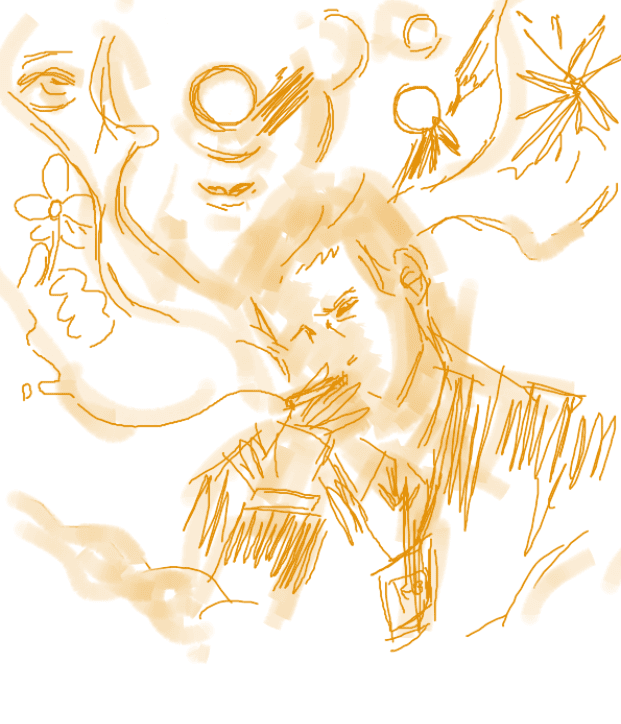
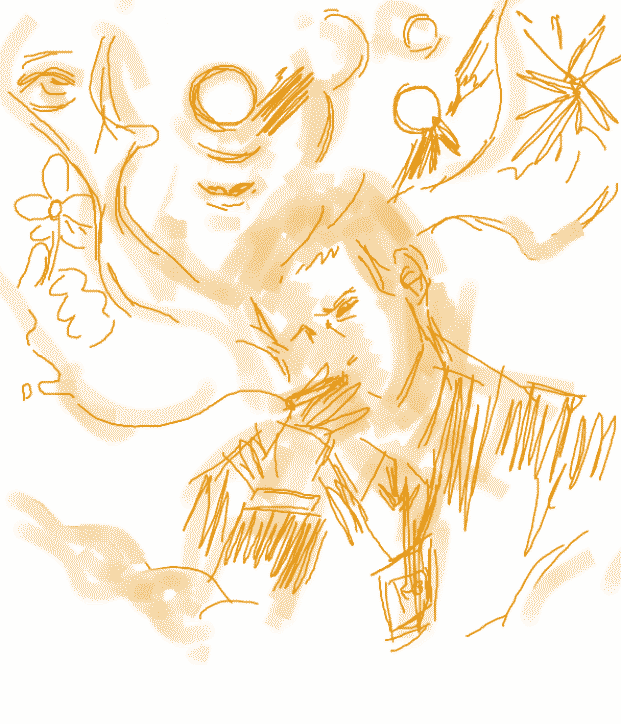
Reorder webrings

diff --git a/source/index.html b/source/index.html
@@ -1710,53 +1710,7 @@ KWWKEKKKKKKWKKKKKKKEKKKKWWWKWWEttGGGGDGDWWEEEEEEEKitttGGGGDW#WKKEEEEEEEEEEEEEKEK
 								<br>
 								<!-- ! RING END -->
 								<br>
-								<!-- ! ADS START -->
-
-								<div class="ads grayscale">
-									<iframe src="https://spaghetti.nekoweb.org/carbonara-embed"
-										style="border: none; width: 150px; height: 150px" base target="_blank"></iframe>
-								</div>
-
-								<!-- ! RING END -->
-								<br>
 								<!-- ! RING START -->
-
-								<!-- This is the melonlink banner script and can go anywhere! -->
-								<script src="https://melonking.net/scripts/melonLinks.js"></script>
-								<!-- This will become a melon link banner! -->
-								<span class="melonLink" data-melon-link-format="club-400x40"></span>
-
-								<div class="webring">
-									<div id="we_bring">
-										<script type="text/javascript"
-											src="https://brooklynights.nekoweb.org/we_bring/onionring-variables.js"></script>
-										<script type="text/javascript"
-											src="https://brooklynights.nekoweb.org/we_bring/onionring-widget.js"></script>
-									</div>
-								</div>
-
-								<!-- ! RING END -->
-								<br>
-								<!-- ! RING START -->
-								<div id="transring">
-									<script src="https://transring.neocities.org/ring.js"></script>
-								</div>
-								<!-- ! RING END -->
-								<br>
-								<!-- ! RING START -->
-								<div class="nullring" style="flex-direction: row">
-									<script src="https://nuthead.neocities.org/ring/ring.js"></script>
-								</div>
-								<!-- ! RING END -->
-								<br>
-								<!-- ! RING START -->
-
-								<iframe src="https://spagwhetti.github.io/embed.html?name=7vtia"
-									style="border: none; height: 3rem; width: 100%"></iframe>
-								<!-- ! RING END -->
-								<br>
-								<!-- ! RING START -->
-
 								<div id="nix-ring">
 									<script defer src="https://softmachine.dev/webring/linuxring/ring.js" data-icon="mint"></script>
 								</div>
@@ -1806,24 +1760,105 @@ KWWKEKKKKKKWKKKKKKKEKKKKWWWKWWEttGGGGDGDWWEEEEEEEKitttGGGGDW#WKKEEEEEEEEEEEEEKEK
 								<br>
 								<!-- ! RING START -->
 
-								<div id="sidecar">
-									<script src="https://sidecar.neocities.org/js/onionring-variables.js"></script>
-									<script src="https://sidecar.neocities.org/js/onionring-widget.js"></script>
+								<div id="webmasterwebring">
+									<a href="https://webmasterwebring.netlify.app/?7vtia-previous"
+										style="color: #2da5d8 !important; ">&larr;</a>
+									<a href="https://webmasterwebring.netlify.app/" style="color: #2da5d8 !important; ">Webmaster
+										Webring</a> <a href="https://webmasterwebring.netlify.app/?7vtia-random"
+										style="color: #2da5d8 !important; ">?</a> <a href="https://webmasterwebring.netlify.app/?7vtia-next"
+										style="color: #2da5d8 !important; ">&rarr;</a>
+								</div>
+								<!-- ! RING END -->
+								<br>
+								<!-- ! RING START -->
+								<div class="nullring" style="flex-direction: row">
+									<script src="https://nuthead.neocities.org/ring/ring.js"></script>
+								</div>
+
+								<!-- ! RING END -->
+
+								<!-- ! RING START -->
+
+								<map name="onlinewidget">
+									<area href="https://webring.ghostk.id/online/" target="_blank" shape="rect" coords="20,14,167,24"
+										alt="The online webring" title="The online webring">
+									<area href="https://webring.ghostk.id/online/vtia/previous" target="_top" shape="rect"
+										coords="7,27,60,36" alt="Previous" title="Previous">
+									<area href="https://webring.ghostk.id/online/random" target="_top" shape="rect" coords="74,27,126,36"
+										alt="Random" title="Random">
+									<area href="https://webring.ghostk.id/online/vtia/next" target="_top" shape="rect"
+										coords="139,27,192,36" alt="Next" title="Next">
+								</map>
+								<img usemap="#onlinewidget" src="https://ghostk.id/i/onlinegray.gif" width="200" height="40" style="
+											width: 200px;
+											height: 40px;
+											max-width: none;
+											image-rendering: pixelated;
+										" alt="A Windows style dialog box titled 'THE ONLINE WEBRING' with three clickable buttons labeled Previous, Random, and Next">
+
+								<!-- ! RING END -->
+								<br>
+								<!-- ! ADS START -->
+
+								<div class="ads grayscale">
+									<iframe src="https://spaghetti.nekoweb.org/carbonara-embed"
+										style="border: none; width: 150px; height: 150px" base target="_blank"></iframe>
 								</div>
 
 								<!-- ! RING END -->
 								<br>
 								<!-- ! RING START -->
 
-								<div id="webmasterwebring">
-									<div id="webmasteringbtn">
-										<a href="https://webmasterwebring.netlify.app?7vtia-previous">&lt;</a><a
-											href="https://webmasterwebring.netlify.app"><img
-												src="https://file.garden/ZrZSgsrYfQXsO7QH/ww/btn.png" width="88" height="31"></a><a
-											href="https://webmasterwebring.netlify.app?7vtia-random" style="font-size: 1.5rem">?</a>
-										<a href="https://webmasterwebring.netlify.app?7vtia-next">&gt;</a>
+								<!-- This is the melonlink banner script and can go anywhere! -->
+								<script src="https://melonking.net/scripts/melonLinks.js"></script>
+								<!-- This will become a melon link banner! -->
+								<span class="melonLink" data-melon-link-format="club-400x40"></span>
+								<!-- ! RING END -->
+								<br>
+								<!-- ! RING START -->
+
+								<iframe src="https://spagwhetti.github.io/embed.html?name=7vtia"
+									style="border: none; height: 3rem; width: 100%"></iframe>
+								<!-- ! RING END -->
+
+								<!-- ! RING START -->
+								<div class="webring">
+									<div id="we_bring">
+										<script type="text/javascript"
+											src="https://brooklynights.nekoweb.org/we_bring/onionring-variables.js"></script>
+										<script type="text/javascript"
+											src="https://brooklynights.nekoweb.org/we_bring/onionring-widget.js"></script>
 									</div>
 								</div>
+								<!-- ! RING END -->
+								<br>
+								<!-- ! RING START -->
+
+								<div id="bonki-ring">
+									<script type="text/javascript"
+										src="https://bonkiscoolsite.neocities.org/bonkiring/bonkiring-widget.js"></script>
+								</div>
+
+								<!-- ! RING END -->
+								<br>
+								<!-- ! RING START -->
+								<div id="transring">
+									<script src="https://transring.neocities.org/ring.js"></script>
+								</div>
+
+
+								<!-- ! RING END -->
+								<br>
+								<!-- ! RING START -->
+
+
+
+								<div id="sidecar">
+									<script src="https://sidecar.neocities.org/js/onionring-variables.js"></script>
+									<script src="https://sidecar.neocities.org/js/onionring-widget.js"></script>
+								</div>
+
+
 
 								<!-- ! RING END -->
 								<br>
@@ -1860,65 +1895,6 @@ KWWKEKKKKKKWKKKKKKKEKKKKWWWKWWEttGGGGDGDWWEEEEEEEKitttGGGGDW#WKKEEEEEEEEEEEEEKEK
 								<!-- ! RING START -->
 								<link rel="stylesheet" href="https://lunarcorvus.com/webring/pmoonwidget.css">
 								<script src="https://lunarcorvus.com/webring/pmoonwidget-lobocorp.js"></script>
-
-								<!-- ! RING END -->
-								<br>
-								<script defer="defer" src="https://mechagic.pages.gay/1stylescripts/webring/gitgudring.js"></script>
-
-								<!-- ! RING END -->
-								<br>
-
-								<!-- ! RING START -->
-
-								<!-- ! CHRONOS WEBRING START -->
-								<div id="chronos">
-									<script src="https://hal.nekoweb.org/chronos/onionring-variables.js"></script>
-									<script src="https://hal.nekoweb.org/chronos/onionring-widget.js"></script>
-								</div>
-								<!-- ! CHRONOS WEBRING END -->
-								<br>
-								<!-- ! RING START -->
-
-								<div id="aperturewebring">
-									<script type="text/javascript"
-										src="https://jack-dawlia.neocities.org/page/shrines/portal/aperturewebring/onionring-variables.js"></script>
-									<script type="text/javascript"
-										src="https://jack-dawlia.neocities.org/page/shrines/portal/aperturewebring/onionring-widget-1.js"></script>
-									<noscript>
-										This site is part of the
-										<a href="https://jack-dawlia.neocities.org/page/shrines/portal/aperturewebring">Aperture
-											Webring</a>!
-									</noscript>
-								</div>
-
-								<!-- ! RING END -->
-								<br>
-								<!-- ! RING START -->
-
-								<div id="codec-ring">
-									<script type="text/javascript"
-										src="https://arillscorner.nekoweb.org/codec-ring/onionring-variables.js"></script>
-
-									<script type="text/javascript"
-										src="https://arillscorner.nekoweb.org/codec-ring/onionring-widget.js"></script>
-								</div>
-
-								<!-- ! RING END -->
-								<br>
-								<!-- ! RING START -->
-
-								<div id="bonki-ring">
-									<script type="text/javascript"
-										src="https://bonkiscoolsite.neocities.org/bonkiring/bonkiring-widget.js"></script>
-								</div>
-
-								<!-- ! RING END -->
-								<br>
-								<!-- ! RING START -->
-								<journal-ring icon="green"></journal-ring>
-								<script async
-									src="https://cdn.jsdelivr.net/gh/js044/nenrikido@main/static/js/misc/journalring.js"></script>
-
 								<!-- ! RING END -->
 								<br>
 								<!-- ! RING START -->
@@ -1978,32 +1954,63 @@ KWWKEKKKKKKWKKKKKKKEKKKKWWWKWWEttGGGGDGDWWEEEEEEEKitttGGGGDW#WKKEEEEEEEEEEEEEKEK
 											}
 
 											/* .navdroidring:hover {
-    background: linear-gradient(to bottom, #ffebc4, #f2f2f2);
-    } */
+									    background: linear-gradient(to bottom, #ffebc4, #f2f2f2);
+									    } */
 										</style>
 									</div>
 								</center>
 
 								<!-- ! RING END -->
 								<br>
+								<script defer="defer" src="https://mechagic.pages.gay/1stylescripts/webring/gitgudring.js"></script>
+
+								<!-- ! RING END -->
+								<br>
+
 								<!-- ! RING START -->
 
-								<map name="onlinewidget">
-									<area href="https://webring.ghostk.id/online/" target="_blank" shape="rect" coords="20,14,167,24"
-										alt="The online webring" title="The online webring">
-									<area href="https://webring.ghostk.id/online/vtia/previous" target="_top" shape="rect"
-										coords="7,27,60,36" alt="Previous" title="Previous">
-									<area href="https://webring.ghostk.id/online/random" target="_top" shape="rect" coords="74,27,126,36"
-										alt="Random" title="Random">
-									<area href="https://webring.ghostk.id/online/vtia/next" target="_top" shape="rect"
-										coords="139,27,192,36" alt="Next" title="Next">
-								</map>
-								<img usemap="#onlinewidget" src="https://ghostk.id/i/onlinegray.gif" width="200" height="40" style="
-											width: 200px;
-											height: 40px;
-											max-width: none;
-											image-rendering: pixelated;
-										" alt="A Windows style dialog box titled 'THE ONLINE WEBRING' with three clickable buttons labeled Previous, Random, and Next">
+								<!-- ! CHRONOS WEBRING START -->
+								<div id="chronos">
+									<script src="https://hal.nekoweb.org/chronos/onionring-variables.js"></script>
+									<script src="https://hal.nekoweb.org/chronos/onionring-widget.js"></script>
+								</div>
+								<!-- ! CHRONOS WEBRING END -->
+								<br>
+								<!-- ! RING START -->
+
+								<div id="aperturewebring">
+									<script type="text/javascript"
+										src="https://jack-dawlia.neocities.org/page/shrines/portal/aperturewebring/onionring-variables.js"></script>
+									<script type="text/javascript"
+										src="https://jack-dawlia.neocities.org/page/shrines/portal/aperturewebring/onionring-widget-1.js"></script>
+									<noscript>
+										This site is part of the
+										<a href="https://jack-dawlia.neocities.org/page/shrines/portal/aperturewebring">Aperture
+											Webring</a>!
+									</noscript>
+								</div>
+
+								<!-- ! RING END -->
+								<br>
+								<!-- ! RING START -->
+
+								<div id="codec-ring">
+									<script type="text/javascript"
+										src="https://arillscorner.nekoweb.org/codec-ring/onionring-variables.js"></script>
+
+									<script type="text/javascript"
+										src="https://arillscorner.nekoweb.org/codec-ring/onionring-widget.js"></script>
+								</div>
+
+
+								<!-- ! RING END -->
+								<br>
+								<!-- ! RING START -->
+								<journal-ring icon="green"></journal-ring>
+								<script async
+									src="https://cdn.jsdelivr.net/gh/js044/nenrikido@main/static/js/misc/journalring.js"></script>
+
+
 
 								<!-- ! RING END -->
 								<br>

diff --git a/source/sitemap.html b/source/sitemap.html
@@ -2,12 +2,12 @@
 <html lang="en">
 
 <head>
-	<meta charset="UTF-8" />
-	<meta name="viewport" content="width=device-width, initial-scale=1.0" />
+	<meta charset="UTF-8">
+	<meta name="viewport" content="width=device-width, initial-scale=1.0">
 	<title>7vtia/Sitemap</title>
-	<link rel="icon" type="image/x-icon" href="images/favicon.ico" />
-	<link rel="stylesheet" href="styles/styles.css" />
-	<link rel="stylesheet" href="posts/poststyle.css" />
+	<link rel="icon" type="image/x-icon" href="images/favicon.ico">
+	<link rel="stylesheet" href="styles/styles.css">
+	<link rel="stylesheet" href="posts/poststyle.css">
 	<style>
 		ul {
 			line-height: 1.8em;
@@ -26,7 +26,7 @@
 <body>
 	<header>
 		<div class="button">
-			<img src="images/7vtia.png" />
+			<img src="images/7vtia.png">
 		</div>
 		<nav>
 			<a href="index.html">Main Site</a>
